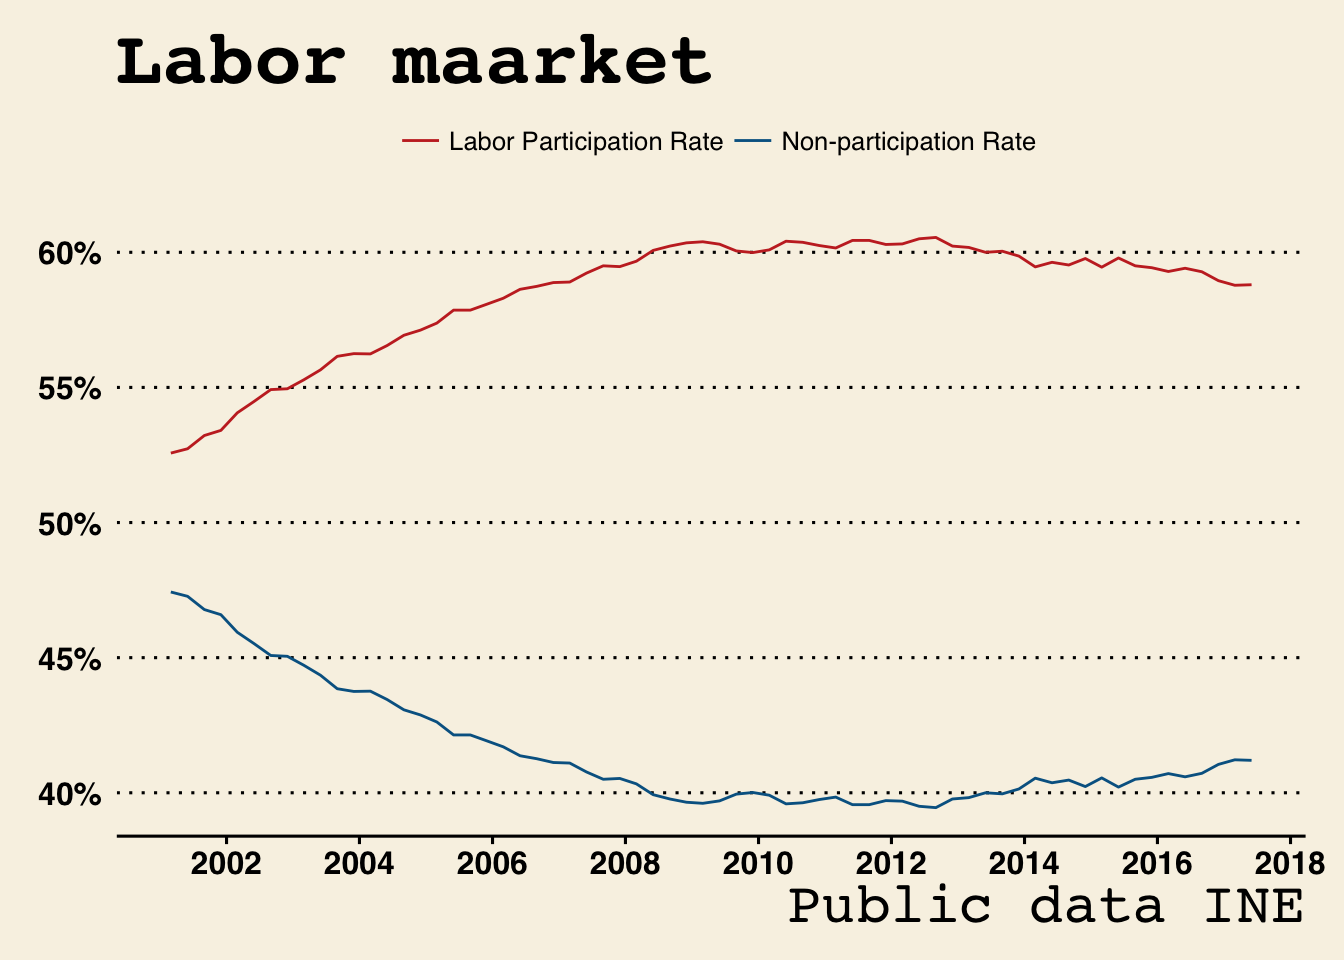
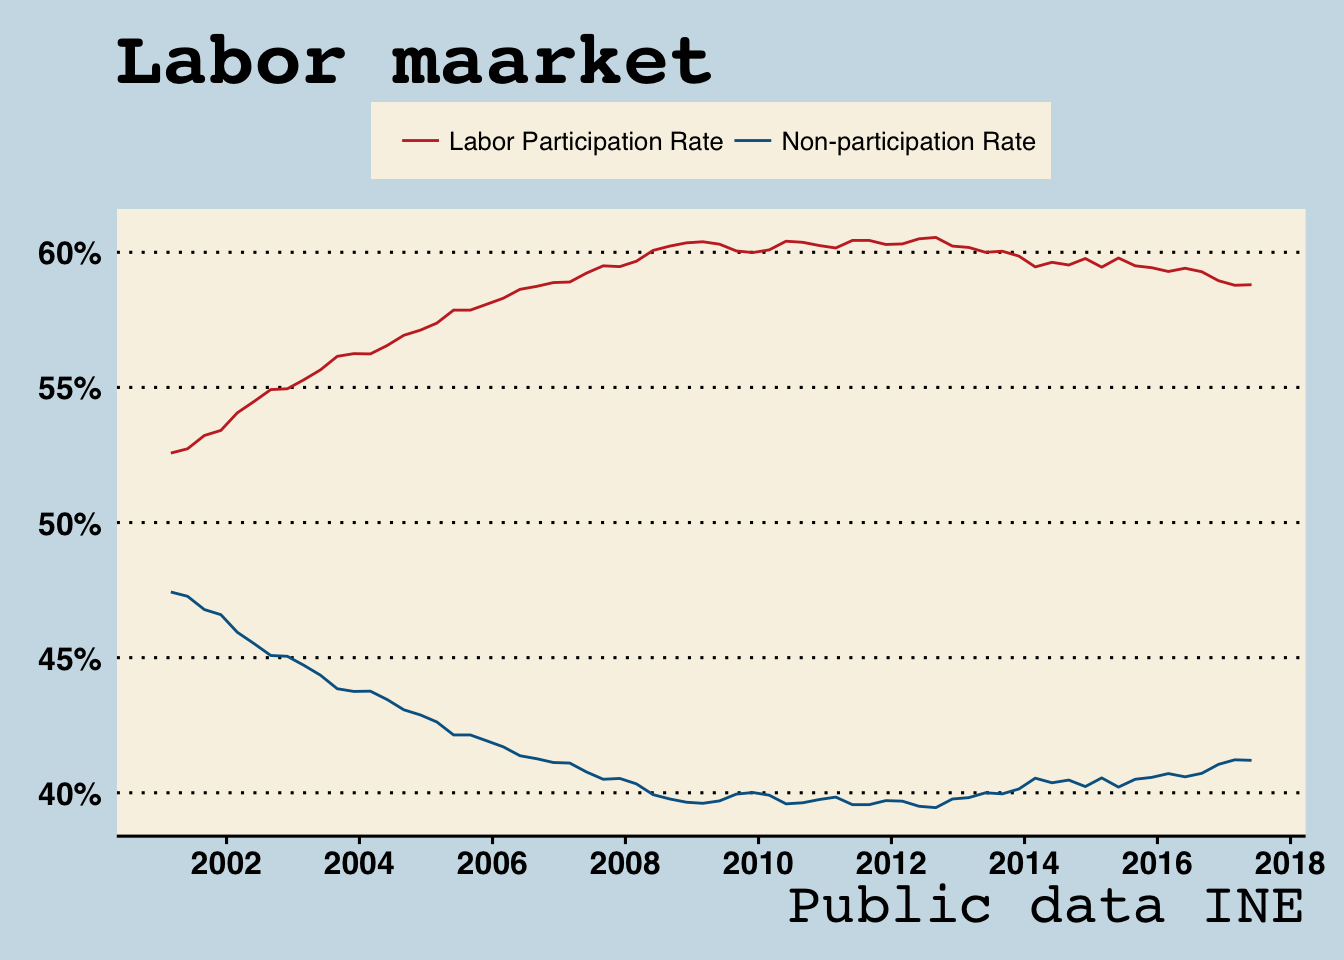
...

diff --git a/content/post/2017-09-15-unemployment-in-spain.html b/content/post/2017-09-15-unemployment-in-spain.html
@@ -100,8 +100,6 @@ tbl_ine$date &lt;- dmy(tbl_ine$date)</code></pre>
 <h1>Plot</h1>
 <p>About 41% of the population is not actively engaged in the labor force, taking us back to 2007 levels.</p>
 <p>It’s important to keep in mind that individuals in this category include for example retired, full-time students or stay at home mom’s/dad’s.</p>
-<div id="labor-force-participation-rate" class="section level2">
-<h2>Labor Force Participation Rate</h2>
 <pre class="r"><code>particpation &lt;- tbl_ine %&gt;% filter(metric != &quot;Unemployment Rate&quot;)
 ggplot(particpation,aes(x=date,y=ratio,color=metric)) +
 geom_line(alpha=1) + 
@@ -112,26 +110,10 @@ labs(
 scale_y_continuous(labels=scales::percent) +
 scale_x_date(date_labels = &quot;%Y&quot;, date_breaks = &quot;2 years&quot;)  +
 theme_wsj() + 
-scale_colour_wsj(&quot;colors6&quot;, &quot;&quot;)</code></pre>
-<p><img src="/post/2017-09-15-unemployment-in-spain_files/figure-html/unnamed-chunk-4-1.png" width="672" /></p>
-<pre class="r"><code>theme(legend.title=element_blank()) +
+scale_colour_wsj(&quot;colors6&quot;, &quot;&quot;) + 
+theme(legend.title=element_blank()) +
 theme(plot.background = element_rect(fill = &quot;#cddee7&quot;)) </code></pre>
-<pre><code>## List of 2
-##  $ legend.title   : list()
-##   ..- attr(*, &quot;class&quot;)= chr [1:2] &quot;element_blank&quot; &quot;element&quot;
-##  $ plot.background:List of 5
-##   ..$ fill         : chr &quot;#cddee7&quot;
-##   ..$ colour       : NULL
-##   ..$ size         : NULL
-##   ..$ linetype     : NULL
-##   ..$ inherit.blank: logi FALSE
-##   ..- attr(*, &quot;class&quot;)= chr [1:2] &quot;element_rect&quot; &quot;element&quot;
-##  - attr(*, &quot;class&quot;)= chr [1:2] &quot;theme&quot; &quot;gg&quot;
-##  - attr(*, &quot;complete&quot;)= logi FALSE
-##  - attr(*, &quot;validate&quot;)= logi TRUE</code></pre>
-</div>
-<div id="unemployment-rate" class="section level2">
-<h2>Unemployment rate</h2>
+<p><img src="/post/2017-09-15-unemployment-in-spain_files/figure-html/unnamed-chunk-4-1.png" width="672" /></p>
 <p>Unemployment rate in Spain is going down but remains alarmingly high - of the highest unemployment rate in Europe and youth particularly (unfortunately I am today one of them - should have stayed in London? :).</p>
 <pre class="r"><code>particpation &lt;- tbl_ine %&gt;% filter(metric == &quot;Unemployment Rate&quot;)
 ggplot(particpation,aes(x=date,y=ratio,color=metric)) +
@@ -147,7 +129,6 @@ scale_x_date(date_labels = &quot;%Y&quot;, date_breaks = &quot;2 years&quot;)  +
 theme(legend.title=element_blank()) </code></pre>
 <p><img src="/post/2017-09-15-unemployment-in-spain_files/figure-html/unnamed-chunk-5-1.png" width="672" /></p>
 <p>That’s it - a simple post showing the labor market in Spain!</p>
-</div>
 </div>
 <div class="footnotes">
 <hr />

diff --git a/public/post/2017/09/15/unemployment-in-spain/index.html b/public/post/2017/09/15/unemployment-in-spain/index.html
@@ -118,8 +118,6 @@ tbl_ine$date &lt;- dmy(tbl_ine$date)</code></pre>
 <h1>Plot</h1>
 <p>About 41% of the population is not actively engaged in the labor force, taking us back to 2007 levels.</p>
 <p>It’s important to keep in mind that individuals in this category include for example retired, full-time students or stay at home mom’s/dad’s.</p>
-<div id="labor-force-participation-rate" class="section level2">
-<h2>Labor Force Participation Rate</h2>
 <pre class="r"><code>particpation &lt;- tbl_ine %&gt;% filter(metric != &quot;Unemployment Rate&quot;)
 ggplot(particpation,aes(x=date,y=ratio,color=metric)) +
 geom_line(alpha=1) + 
@@ -130,26 +128,10 @@ labs(
 scale_y_continuous(labels=scales::percent) +
 scale_x_date(date_labels = &quot;%Y&quot;, date_breaks = &quot;2 years&quot;)  +
 theme_wsj() + 
-scale_colour_wsj(&quot;colors6&quot;, &quot;&quot;)</code></pre>
-<p><img src="/post/2017-09-15-unemployment-in-spain_files/figure-html/unnamed-chunk-4-1.png" width="672" /></p>
-<pre class="r"><code>theme(legend.title=element_blank()) +
+scale_colour_wsj(&quot;colors6&quot;, &quot;&quot;) + 
+theme(legend.title=element_blank()) +
 theme(plot.background = element_rect(fill = &quot;#cddee7&quot;)) </code></pre>
-<pre><code>## List of 2
-##  $ legend.title   : list()
-##   ..- attr(*, &quot;class&quot;)= chr [1:2] &quot;element_blank&quot; &quot;element&quot;
-##  $ plot.background:List of 5
-##   ..$ fill         : chr &quot;#cddee7&quot;
-##   ..$ colour       : NULL
-##   ..$ size         : NULL
-##   ..$ linetype     : NULL
-##   ..$ inherit.blank: logi FALSE
-##   ..- attr(*, &quot;class&quot;)= chr [1:2] &quot;element_rect&quot; &quot;element&quot;
-##  - attr(*, &quot;class&quot;)= chr [1:2] &quot;theme&quot; &quot;gg&quot;
-##  - attr(*, &quot;complete&quot;)= logi FALSE
-##  - attr(*, &quot;validate&quot;)= logi TRUE</code></pre>
-</div>
-<div id="unemployment-rate" class="section level2">
-<h2>Unemployment rate</h2>
+<p><img src="/post/2017-09-15-unemployment-in-spain_files/figure-html/unnamed-chunk-4-1.png" width="672" /></p>
 <p>Unemployment rate in Spain is going down but remains alarmingly high - of the highest unemployment rate in Europe and youth particularly (unfortunately I am today one of them - should have stayed in London? :).</p>
 <pre class="r"><code>particpation &lt;- tbl_ine %&gt;% filter(metric == &quot;Unemployment Rate&quot;)
 ggplot(particpation,aes(x=date,y=ratio,color=metric)) +
@@ -165,7 +147,6 @@ scale_x_date(date_labels = &quot;%Y&quot;, date_breaks = &quot;2 years&quot;)  +
 theme(legend.title=element_blank()) </code></pre>
 <p><img src="/post/2017-09-15-unemployment-in-spain_files/figure-html/unnamed-chunk-5-1.png" width="672" /></p>
 <p>That’s it - a simple post showing the labor market in Spain!</p>
-</div>
 </div>
 <div class="footnotes">
 <hr />
